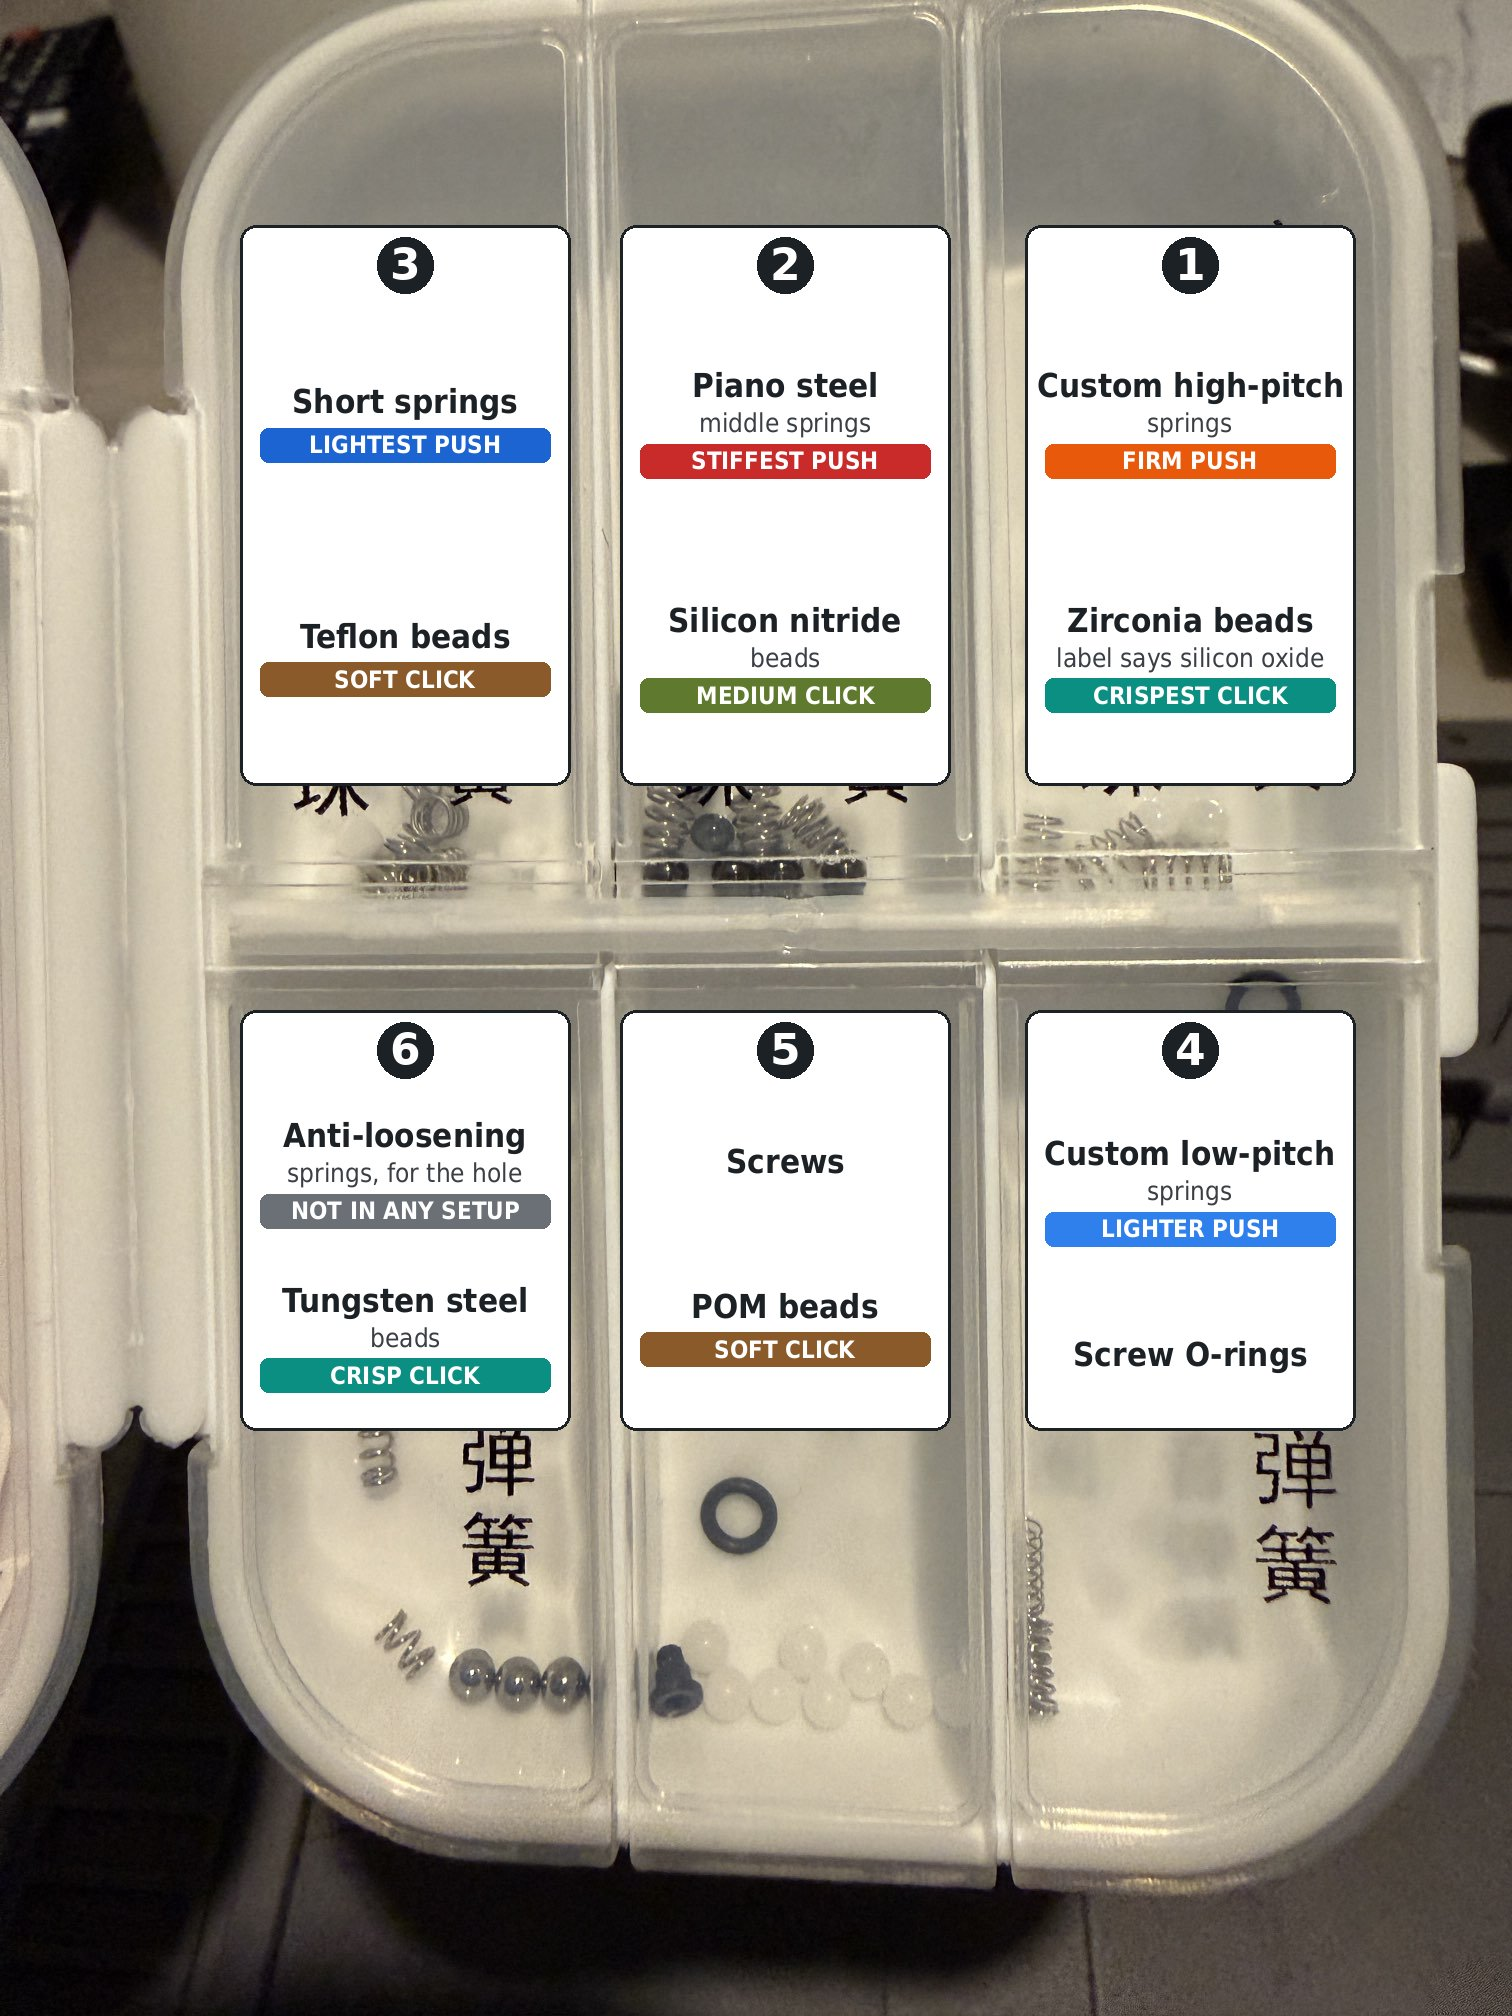
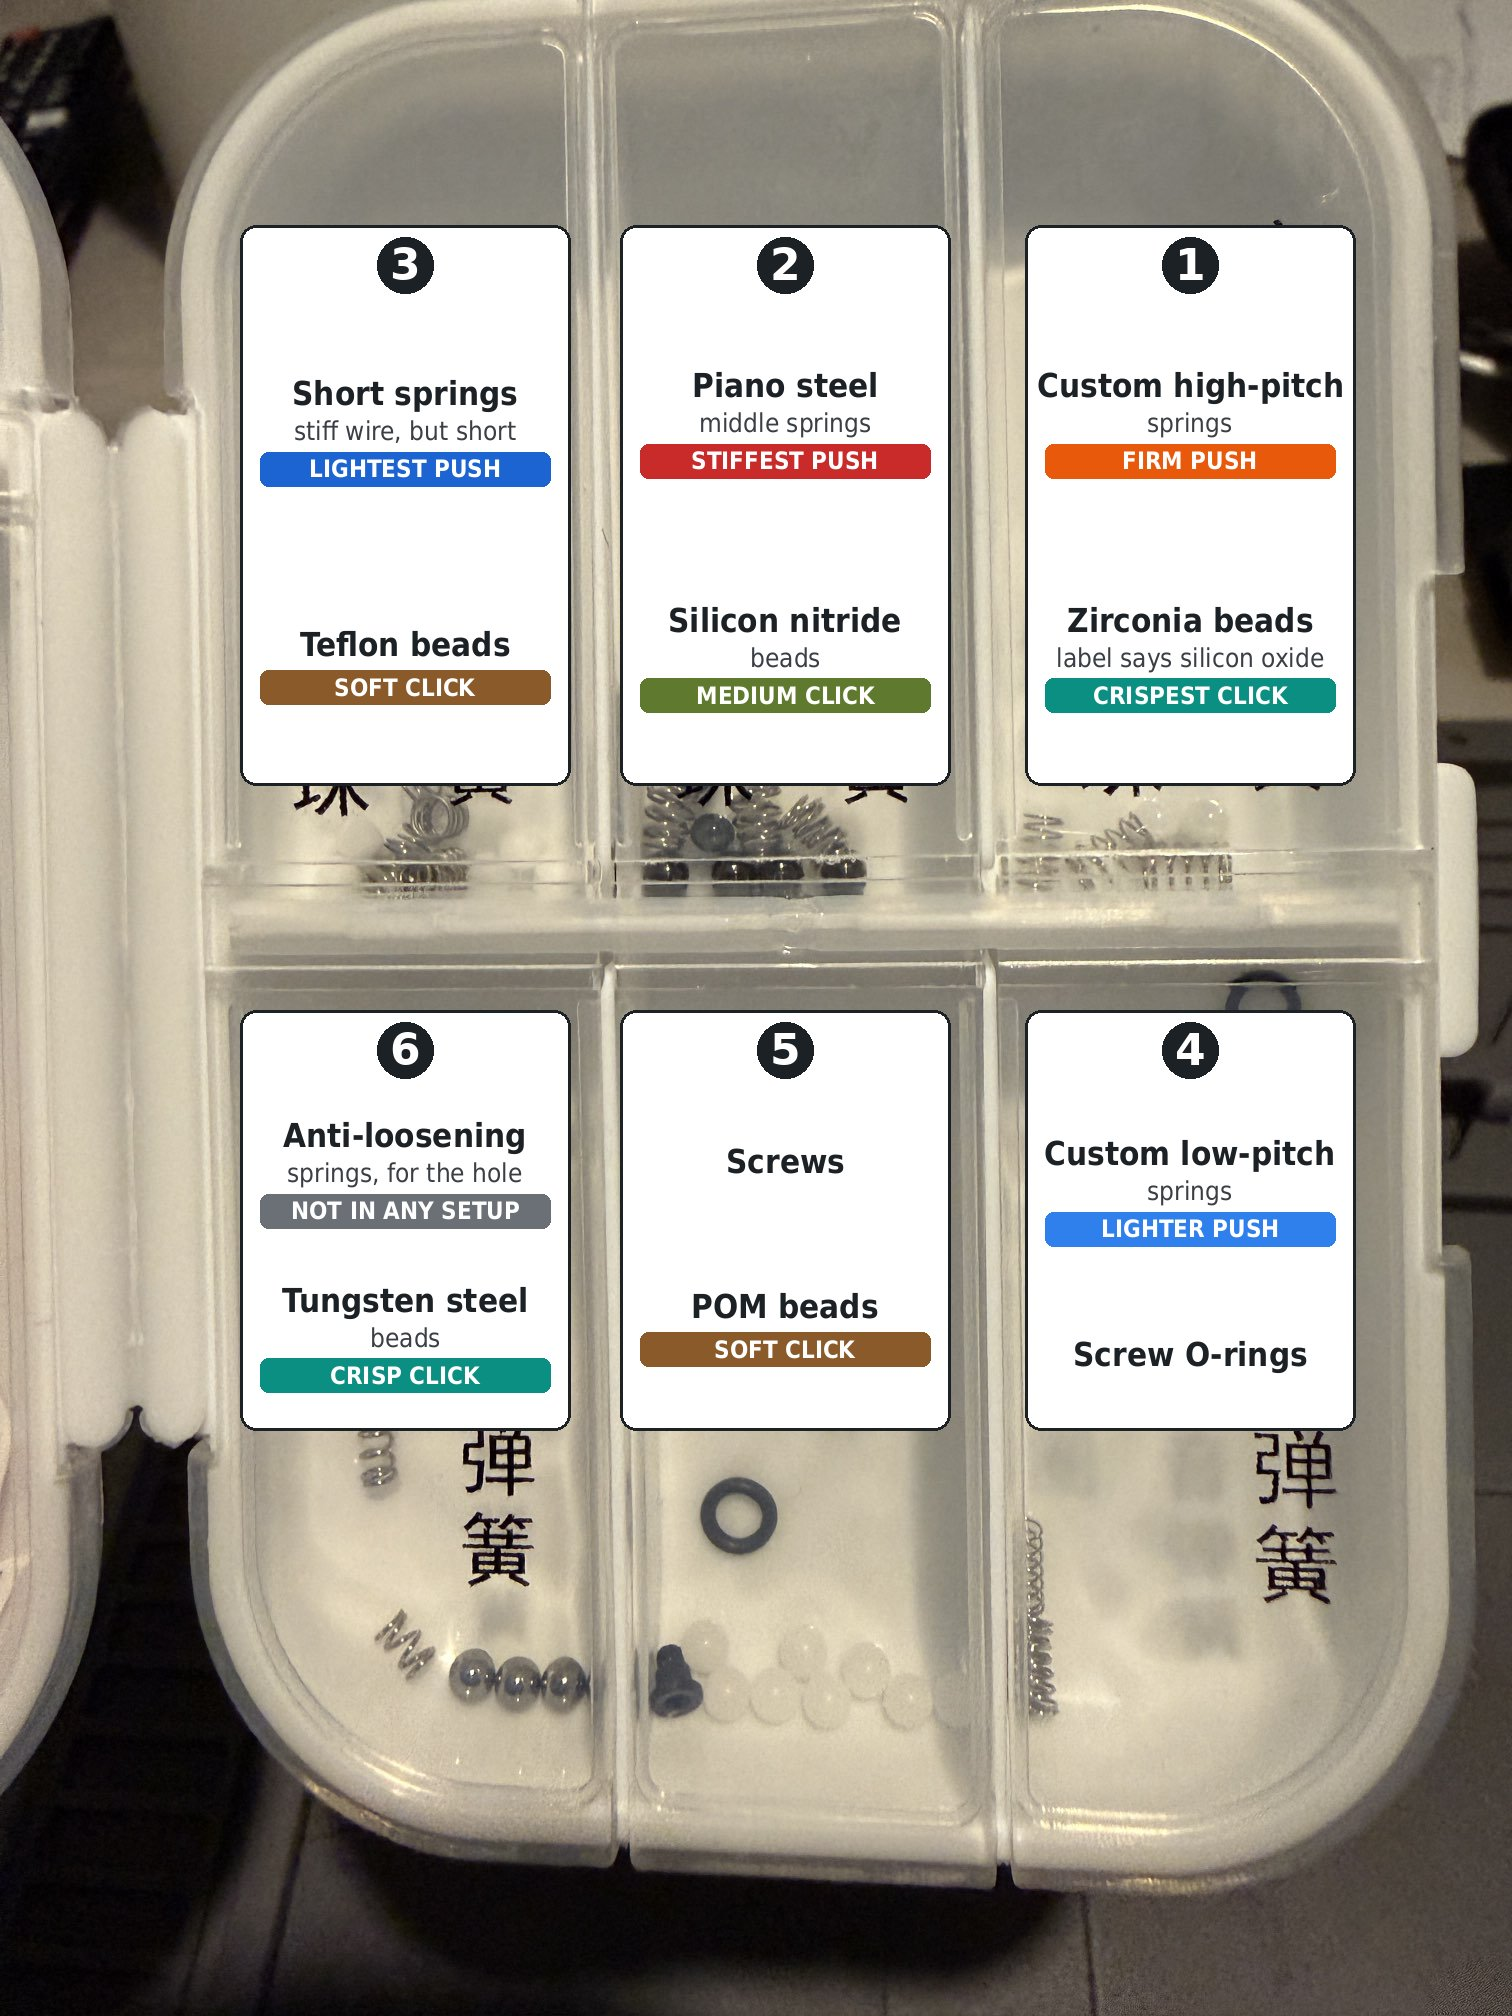
Groove Ultra: short spring is stiff but short; update spec, note and box photo
Claude-Session: https://claude.ai/code/session_013kMXNV3pZvkDKZYaheChjm

Changed region(s): [[0.1554, 0.1875, 0.373, 0.25], [0.1865, 0.3125, 0.3419, 0.375]]

diff --git a/app.html b/app.html
@@ -492,12 +492,13 @@ header.top{border-top:3px solid var(--accent);background:color-mix(in srgb,var(-
           <div class="tbl"><table class="htable"><thead><tr><th scope="col">Hole</th><th scope="col">Spring</th><th scope="col">Bead</th></tr></thead><tbody>
             <tr><td>A · basic</td><td>Piano steel middle spring (compartment 2): longer, about 5 open coils</td><td>Zirconia (compartment 1)</td></tr>
             <tr><td>B · density boost</td><td>Custom high-pitch spring (compartment 1): tightly wound, about 7 close coils</td><td>Zirconia (compartment 1)</td></tr>
-            <tr><td>Z1 · damping</td><td>Short spring (compartment 3): squat, about 3 coils</td><td>Teflon (compartment 3)</td></tr>
+            <tr><td>Z1 · damping</td><td>Short spring (compartment 3): short and stiff, about 4 coils of thicker wire</td><td>Teflon (compartment 3)</td></tr>
           </tbody></table></div>
           <p class="muted" style="font-size:.84rem">Same holes as the card's Dense setup. Springs were identified by eye from a stock unit; beads were matched to the box compartments. The rotating face's out-of-the-box tune hasn't been checked yet.</p>
           <h2 style="margin-top:6px">From the card</h2>
           <div class="tbl"><table class="htable"><thead><tr><th scope="col">Spring</th><th scope="col">Push resistance</th></tr></thead><tbody>
             <tr><td>Piano steel middle spring</td><td class="up">Stiffest</td></tr><tr><td>Custom high-pitch spring</td><td>Firm</td></tr><tr><td>Custom low-pitch spring</td><td>Lighter</td></tr><tr><td>Short spring</td><td class="dn">Lightest</td></tr></tbody></table></div>
+          <p class="muted" style="font-size:.84rem">The short spring isn't soft: the wire is stiff. The card still ranks it lightest for push resistance. That's likely because it's short: it's squashed less in the hole, so it presses the bead less hard than a longer spring.</p>
           <div class="tbl"><table class="htable"><thead><tr><th scope="col">Bead</th><th scope="col">Crispness</th></tr></thead><tbody>
             <tr><td>Zirconia</td><td class="up">Crispest</td></tr><tr><td>Tungsten steel</td><td>Crisp</td></tr><tr><td>Silicon nitride</td><td>Medium</td></tr><tr><td>POM</td><td>Soft</td></tr><tr><td>Teflon</td><td class="dn">Softest</td></tr></tbody></table></div>
         </div>
